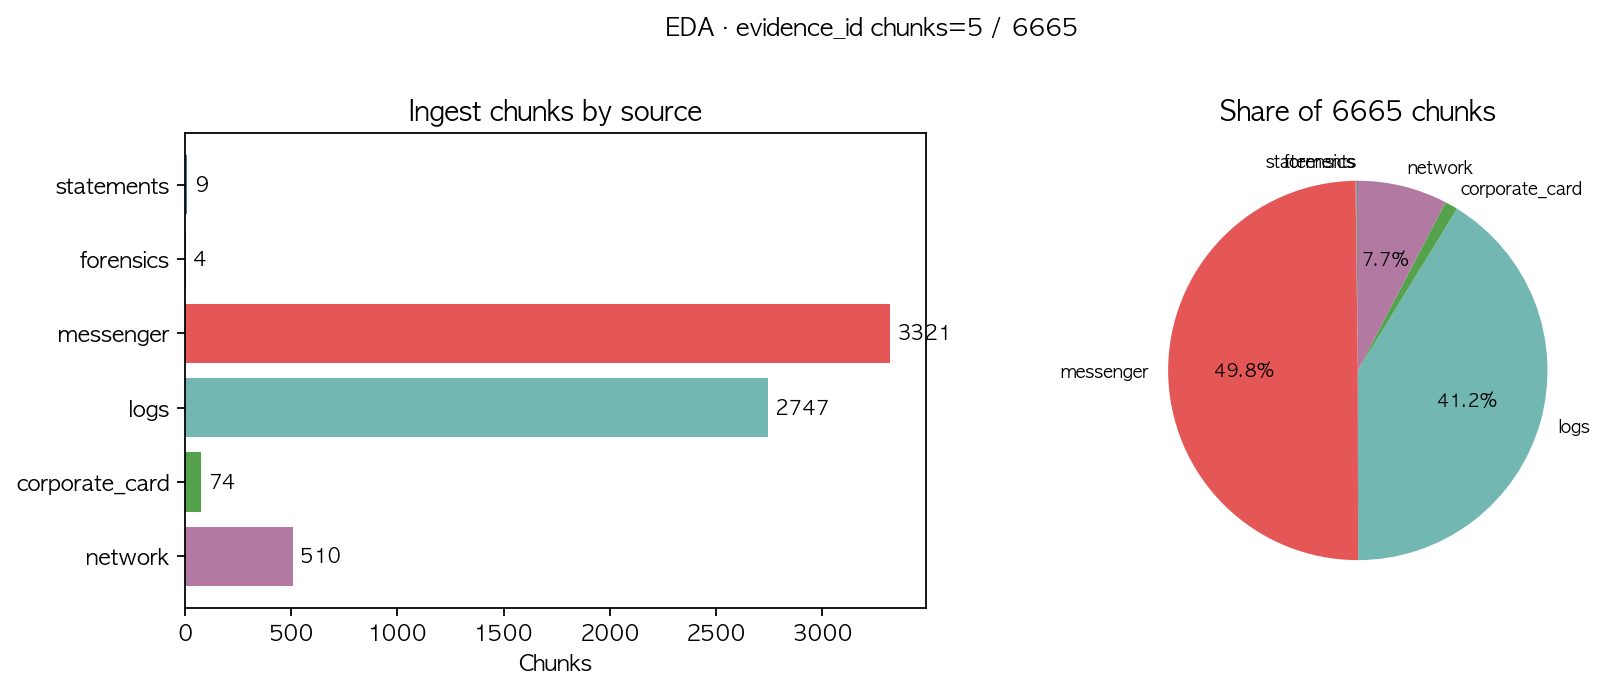
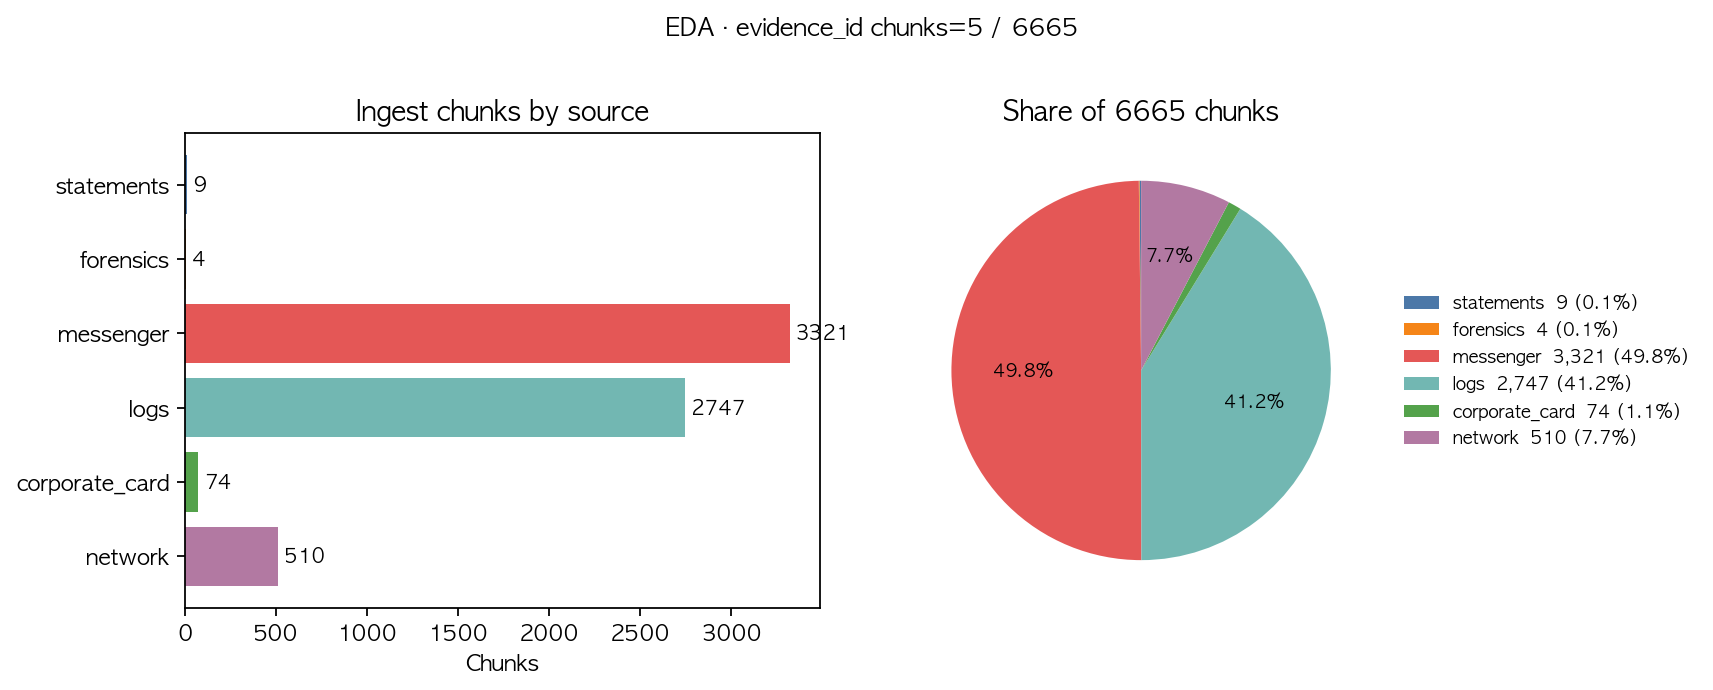
fix: move tiny pie-slice labels into a legend to stop overlap.

diff --git a/scripts/plot_metrics.py b/scripts/plot_metrics.py
@@ -76,17 +76,28 @@ def plot_chunk_sources() -> None:
     for i, v in enumerate(values[::-1]):
         axes[0].text(v + max(values) * 0.01, i, str(v), va="center", fontsize=9)
 
-    axes[1].pie(
+    total = sum(values)
+    wedges, _, _ = axes[1].pie(
         values,
-        labels=labels,
+        labels=None,
         autopct=lambda p: f"{p:.1f}%" if p >= 3 else "",
         colors=colors[: len(labels)],
         startangle=90,
+        pctdistance=0.62,
         textprops={"fontsize": 8},
     )
-    axes[1].set_title(f"Share of {sum(values)} chunks")
+    legend_labels = [f"{lab}  {v:,} ({100.0 * v / total:.1f}%)" for lab, v in zip(labels, values)]
+    axes[1].legend(
+        wedges,
+        legend_labels,
+        loc="center left",
+        bbox_to_anchor=(1.02, 0.5),
+        fontsize=8,
+        frameon=False,
+    )
+    axes[1].set_title(f"Share of {total} chunks")
     fig.suptitle(
-        f"EDA · evidence_id chunks={summary.get('with_evidence_id', '?')} / {summary.get('n_chunks', sum(values))}",
+        f"EDA · evidence_id chunks={summary.get('with_evidence_id', '?')} / {summary.get('n_chunks', total)}",
         fontsize=11,
         y=1.02,
     )
